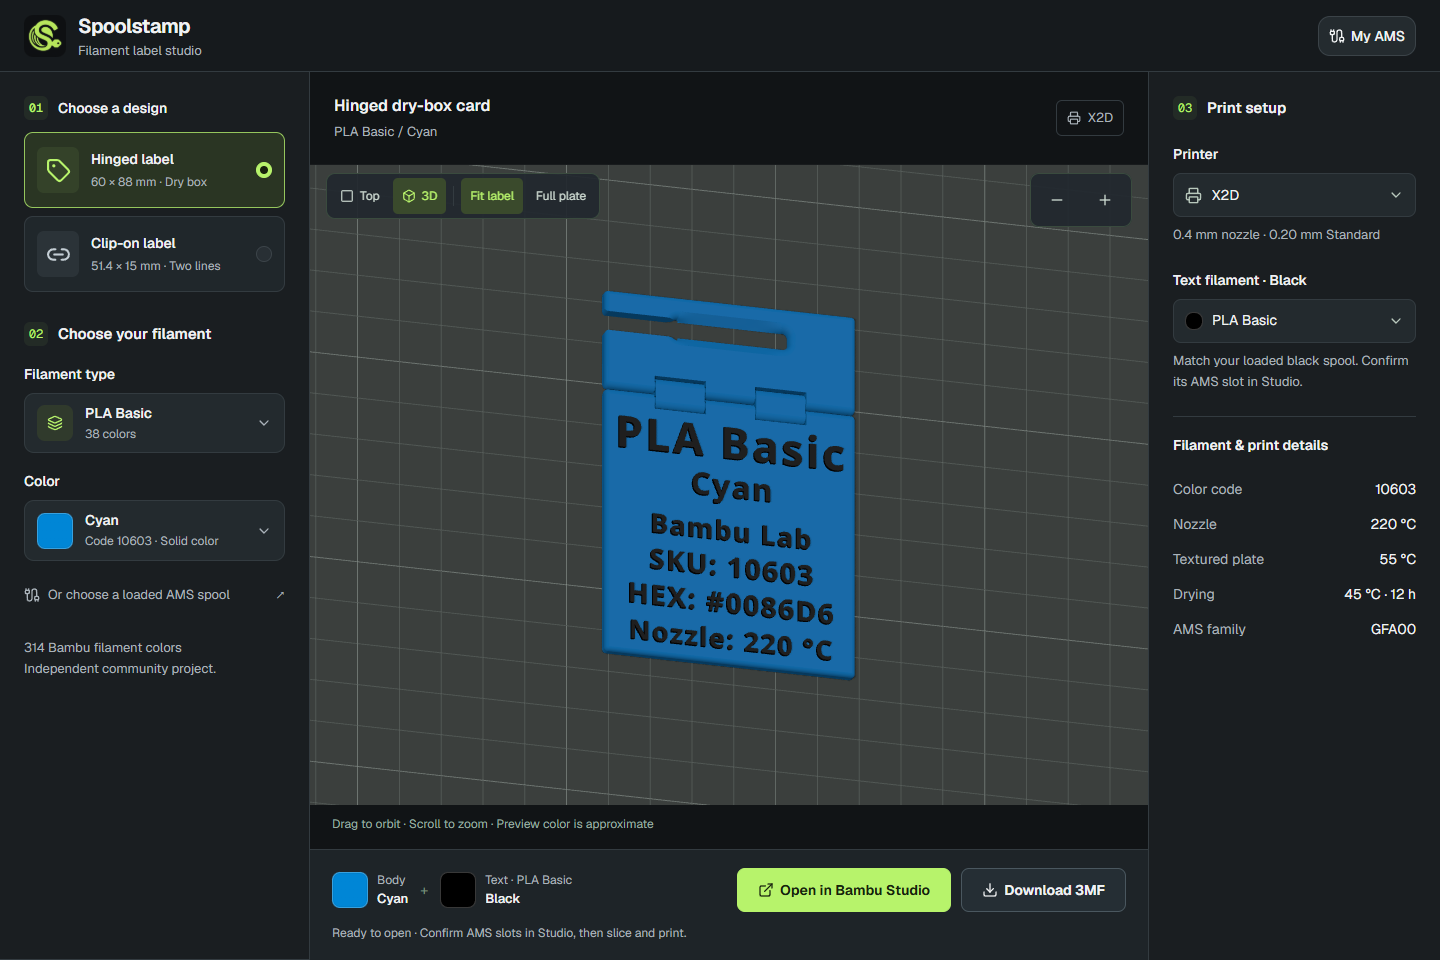
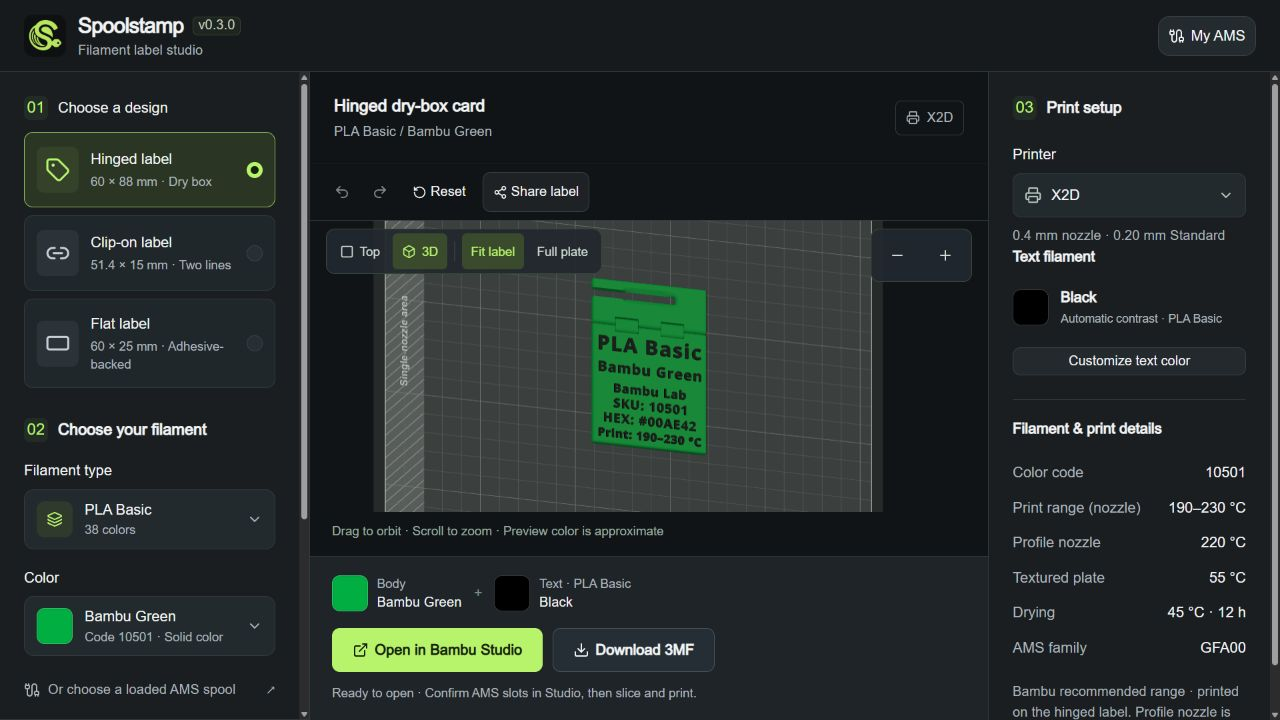
Refresh v0.3.0 guides, screenshots and design coverage

diff --git a/tests/label-plates.test.ts b/tests/label-plates.test.ts
@@ -1,6 +1,6 @@
 import { describe, expect, it } from 'vitest';
 import JSZip from 'jszip';
-import { DEFAULT_FILAMENT, FILAMENTS, PRINTERS } from '../lib/catalog';
+import { DEFAULT_FILAMENT, DESIGNS, FILAMENTS, PRINTERS } from '../lib/catalog';
 import {
   generateLabelPlates,
   MAX_PLATE_FILAMENTS,
@@ -40,7 +40,7 @@ describe('multi-label plates', () => {
       placeAssembliesOnBed([[{ vertices: [0, 0, 0, 180, 180, 2] }]], bed),
     ).toThrow('fit safely');
   });
-  it.each(['drybox-tab', 'clip-label'] as const)(
+  it.each(DESIGNS.map((design) => design.id))(
     'packs %s within every supported printer common-nozzle bed',
     async (design) => {
       const meshes = await buildConfiguredMeshes(DEFAULT_FILAMENT, design);

diff --git a/CONTRIBUTING.md b/CONTRIBUTING.md
@@ -11,14 +11,20 @@ npm ci
 npm run dev
 ```
 
-Before submitting:
+Before submitting, run the same checks as [CI](.github/workflows/ci.yml):
 
 ```sh
 npm run typecheck
 npm test
 npm run lint
+npm run build:ams:lambda
 npm run build
+npm run build:static
 ```
+
+The Lambda command only bundles the backend into `.aws-sam/ams/`; it does not deploy or need AWS credentials. The static build verifies `dist/client/index.html`, the artifact published by Amplify. Run production and static builds sequentially: they share `dist/`. Record what passed and any remaining limits; a passing geometry test is not a physical print or Studio-slicing qualification.
+
+For iteration, run relevant files with `npm test -- tests/label-editing.test.ts tests/saved-workspace-transfer.test.ts`. Run the complete suite before a PR. Catalog geometry tests are deliberately partitioned by product; preserve the full catalog/design matrix, per-design assertions and existing timeouts rather than sampling colors or weakening checks to make a slow run pass.
 
 ## Catalog updates
 
@@ -33,7 +39,43 @@ Optional store enrichment: `npm run sync:catalog:store`. Include the updated sna
 
 ## New designs
 
-Include the source, attribution, license, dimensions, and print settings. Templates should produce closed meshes, attached printable lettering, and consistent preview/export geometry. Add tests alongside the design.
+Keep Bambu-only filament support. For a supplied template, include its source, attribution, license, source hash, dimensions and intended print orientation; preserve accepted mechanical interfaces unless a change is explicitly intended. For an original design, identify it as original and document dimensions, mounting needs and any untested print/fit assumptions. The [flat adhesive label](docs/adhesive-label.md) is the original-design example; it must not inherit the supplied clip's provenance.
+
+Implementation entry points:
+
+- Add a stable ID and display metadata to `DESIGNS` in `lib/catalog.ts`; `DesignId` is derived from it. Keep existing IDs valid for saved drafts and shared links.
+- Put geometry in its own `lib/` module and wire `buildConfiguredMeshes` plus design-specific provenance, filename and project description in `lib/generate-3mf.ts`.
+- Check preview orientation, face normals, close-up framing and plate placement in `components/label-preview.tsx` and the `lib/preview-*` helpers. Preview and export must use the same geometry and print orientation.
+- Extend configuration restoration, link/backup round trips, UI metadata and documentation as needed; catalog validation must still reject unknown design IDs and arbitrary filament data.
+
+Add meaningful tests alongside the design. Use `tests/adhesive-label.test.ts` and `tests/adhesive-export.test.ts` as examples, and extend the existing catalog, build-plate, preview-bed, label-batch and label-plates coverage. Check closed positive-volume meshes on the serialized grid, printable strokes and text bounds across every catalog product/color, glyph attachment, retained source mechanics, and unchanged vertices during placement. Check every offered printer's common printable bed/exclusions and height, single/separate/arranged exports, body/text assignments and colors, filament-vector sizes, and accurate provenance/version metadata. Long names and manual text overrides need coverage. Clearly separate digital checks from native Studio import/slicing and physical qualification.
+
+## Local browser checks without Bambu traffic
+
+Use the synthetic fixture for layout and state checks. It binds only to loopback and returns sample inventory; it never contacts Bambu. Start these in separate PowerShell terminals from the repository root:
+
+```powershell
+# Terminal 1: synthetic API and scenario controls.
+node tests/fixtures/ams-browser-preview.mjs
+```
+
+```powershell
+# Terminal 2: frontend pointed only at the synthetic API.
+$env:VITE_AMS_API_ORIGIN = 'http://127.0.0.1:3005'
+npm run dev -- --host 127.0.0.1 --port 3004 --strictPort
+```
+
+Open `http://127.0.0.1:3004` for the app and `http://127.0.0.1:3005/` for scenario controls. Keep this exact hostname/port pair: the fixture permits that frontend origin. Exercise ready, reading, fresh, expired, offline and outage states through **My AMS**. A simulated read advances from reading to fresh after four seconds; the fixture page reports the simulated read count. Choose a label, expire the snapshot, then reopen My AMS and choose another captured catalog label without increasing that count. Check that expired choices are clearly separate from fresh inventory and that outage UI still permits manual/captured catalog choices.
+
+On desktop and 390/320 px mobile layouts, also check all designs, undo/redo/reset, shared-link restoration after reload, text-color overrides, and downloads. Use `tests/fixtures/workspace-backup.json` to check explicit imported-setup selection, duplicate merging and cross-tab saved-list changes. Undo/redo must invalidate in-flight downloads and Studio preparation; invalid links/backups must leave the current configuration/saved lists intact. The fixture covers authenticated UI states, not email-code authentication, real ownership checks, provider behavior or physical printer connectivity. Do not enter credentials or use the real cloud backend for this recipe. Stop both processes and remove the frontend variable when finished:
+
+```powershell
+Remove-Item Env:VITE_AMS_API_ORIGIN -ErrorAction SilentlyContinue
+```
+
+## Documentation and screenshots
+
+Refresh affected instructions, design details and README images when behavior changes. Prefer the synthetic fixture and sample workspace for screenshots; use the paths already referenced under `docs/images/`. Capture the actual interface at the documented viewport and label synthetic inventory as sample data. Check the saved image for clipping, overlap and readable text before committing it. Exclude account email, codes, cookies/tokens, physical printer names/serials and personal browser UI. A synthetic screenshot documents the interface and does not extend real-device qualification. Keep older dated qualification evidence explicit rather than presenting it as a current feature screenshot.
 
 ## Local integrations
 

diff --git a/docs/releases.md b/docs/releases.md
@@ -4,10 +4,38 @@
 
 Use semantic versions: patch for fixes, minor for compatible features, major for breaking changes. While the app is below 1.0, document any compatibility changes explicitly. The existing `0.1.0` package was the baseline; `0.2.0` begins tracked releases.
 
-1. Run `npm run release:patch`, `npm run release:minor`, or `npm run release:major` once on a release branch. These update package and lock versions without creating a tag or commit.
-2. Add the same version and release date to `CHANGELOG.md`.
-3. Run typecheck, tests, lint, production/static builds, and relevant browser checks. Test generated-project metadata when changing export behavior.
-4. Include version, lock, changelog, code and tests in the PR. After CI passes and publication is approved, merge to `main`.
-5. Verify the automatic deployment and the displayed version. If a Git tag/GitHub release is wanted, create `vX.Y.Z` at the merged commit only after approval and successful deployment. Bump commands never publish, push, or tag automatically.
+## Prepare and push a candidate
+
+1. Run `npm run release:patch`, `npm run release:minor`, or `npm run release:major` once on a release branch. These update package and lock versions without creating a tag or commit. The current `0.3.0` candidate is already bumped; do not bump it again just to push documentation or screenshots.
+2. Add the same version to `CHANGELOG.md` as **unreleased**, describing the final changes and their validation limits. A branch push or successful local build is not a release. Keep `0.3.0` unreleased while merge/deployment approval is pending.
+3. Run the checks below, refresh affected instructions/screenshots, and include version, lock, changelog, implementation and tests in the candidate. Preserve unrelated working-tree edits and exclude secrets or generated build output.
+4. Push only the approved scope to its feature branch and open a PR when authorized. Pushing a feature branch does not merge it, publish a GitHub release or deploy the production site. The repository CI runs on pull requests and `main` pushes; a feature-branch push without a PR does not itself run this workflow.
+
+## Validate the candidate
+
+From a clean dependency install, run the current [CI workflow](../.github/workflows/ci.yml) checks:
+
+```sh
+npm ci
+npm run typecheck
+npm test
+npm run lint
+npm run build:ams:lambda
+npm run build
+npm run build:static
+```
+
+Run the two frontend builds sequentially because they share `dist/`. Static validation checks the HTML/client artifacts Amplify publishes from `dist/client`; the normal production build also covers the server build path. Lambda validation produces `.aws-sam/ams/lambda-ams.mjs` locally and does not deploy the separately managed backend. Backend deployment and cloud-state checks are separate actions when backend changes require them.
+
+For design/export changes, retain full catalog text/readability checks, closed positive-volume geometry, glyph attachment and any supplied-template preservation assertions. Verify all offered printer beds and exclusions, matching preview/export orientation, single/separate/arranged exports, filament role assignments/vector sizes, provenance and `APP_VERSION` metadata. Partition expensive catalog checks by product without dropping cases or reducing existing limits. New designs must be included in the relevant test matrices, not only a default-filament smoke test.
+
+Use the [contributor browser recipe](../CONTRIBUTING.md#local-browser-checks-without-bambu-traffic) and `tests/fixtures/ams-browser-preview.mjs` for synthetic AMS states without credentials, verification emails or vendor reads. Check desktop and 390/320 px mobile layouts, captured label reuse after expiry, outage behavior, history cancellation, shared-link restoration, strict backup import and cross-tab stale-write handling. Refresh actual screenshots with sample data, review them for alignment and private information, and distinguish interface evidence from real-printer qualification. Record exact commands/results and any native Studio, provider or physical tests not performed; do not turn automated geometry checks into print/fit claims.
+
+## Merge and verify a release
+
+1. Obtain approval for the merge/deployment; push approval alone is not publication approval. Set the changelog release date as part of the approved release candidate and run CI for that exact final head. Any later change needs checks for the changed head before merging.
+2. Merge only the exact CI-tested PR head after all required checks pass. Amplify publishes the static website automatically from `main`; do not assume its success from the GitHub merge result.
+3. Verify the deployment and displayed version beside the logo, the affected features/assets, and generated 3MF application-version metadata when exports changed. Compare with the merged revision and report any verification limits. The separate AMS backend is not updated by the static website deployment.
+4. If a Git tag/GitHub release is wanted, create `vX.Y.Z` at the merged commit only after approval and successful deployment. Bump commands never publish, push, merge, deploy or tag automatically.
 
 Browser storage schema versions and the pinned Bambu Studio importer identifier are independent of the app’s release number; do not bump or migrate them just to release UI changes.

diff --git a/docs/label-editing.md b/docs/label-editing.md
@@ -1,9 +1,31 @@
 # Editing, sharing and workspace transfer
 
+## Edit a label
+
+Choose a design, filament and printer, then use the toolbar above the preview. **Undo** and **Redo** move between recent choices; **Reset** returns to the default label. Saved favorites and drafts stay available.
+
 The editing toolbar provides undo, redo, reset and **Share label**. Undo/redo covers the last 30 label-configuration changes: filament, design, printer profile, and text choices. It does not undo favorite/draft operations or make/cancel Bambu requests. Reset returns the builder to its default configuration without deleting saved items. Configuration changes, including undo/redo, invalidate in-flight model downloads and Studio preparation.
+
+## Share a setup
+
+1. Finish choosing your label and click **Share label**.
+2. Paste the copied link into your message. If copying is unavailable, select and copy the **Shareable label link** field.
+3. Open the link in another browser to restore its design, filament, printer profile and text choices. Confirm the physical spools in Studio before printing.
+
+![Share label exposes a selectable link above the preview](images/share-label.png)
 
 **Share label** copies a link and exposes a selectable copy field. The URL fragment contains only a versioned catalog filament ID, printer _profile_ ID, design and allowed text options. It contains no Bambu email, code, cookie, token, physical printer ID or AMS inventory. Fragments are not sent in the HTTP request; the choices can still appear in browser history or wherever a user shares the link. Shared choices override remembered setup on initial load and also respond to same-page fragment navigation. Unknown or oversized links leave the builder unchanged and show an error.
 
+## Move favorites and drafts
+
+1. Open **My saved filaments → Backup & restore** and click **Download backup**.
+2. On the destination browser, open the same section and choose your JSON file under **Import a Spoolstamp backup**.
+3. Review the import result. Your existing favorites and drafts are retained. Choose **Use imported setup** to apply the backed-up label, or keep editing the current one.
+
+![Backup and restore controls under My saved filaments](images/workspace-backup.png)
+
 Under **My saved filaments → Backup & restore**, **Download backup** exports setup, favorites and drafts as a local JSON file. Import is limited to 32 KB and strictly validates schema, fields and current catalog choices. It merges duplicates without replacing existing favorites/drafts; capacity overflow rejects the whole import. Imported setup is applied only after **Use imported setup**. Remember-setting and login state are not transferred. The file is not encrypted, but contains catalog choices only, never credentials or live inventory.
+
+## Multiple tabs and storage limits
 
 Tabs synchronize saved lists through storage events. Before writing, a tab checks whether the stored record changed; unseen changes load the latest workspace and ask the user to retry rather than overwriting it. This is best-effort optimistic detection, not atomic multi-process locking: truly simultaneous writes remain a limitation. External setup changes do not unexpectedly replace an actively edited label. Browser storage may be blocked or cleared; keep a backup if the drafts matter.

diff --git a/README.md b/README.md
@@ -34,16 +34,30 @@ A flat face with two lines: material type and color.
 
 ![Clip-on label in the Spoolstamp 3D preview](docs/images/clip-label.png)
 
+## Flat adhesive labels
+
+Choose **Flat label** for an original 60 × 25 mm backing with raised product, color and catalog-code lettering. Add your own suitable adhesive after printing. See [design details and print guidance](docs/adhesive-label.md); physical printing and mounting still need testing.
+
+![Flat adhesive label and editing toolbar in Spoolstamp v0.3.0](docs/images/flat-label.png)
+
+## Edit, share and keep your labels
+
+Use the toolbar above the preview to **Undo**, **Redo**, **Reset**, or **Share label**. Share links restore catalog choices without including Bambu account data or live inventory.
+
+Save favorites and drafts under **My saved filaments**. Open **Backup & restore** to download a JSON backup or import it into another browser. After importing, choose **Use imported setup** if you want to apply the backed-up label. See the [step-by-step guide](docs/label-editing.md).
+
 ## My AMS
 
 Read your loaded spools directly through Bambu Cloud, then create labels without looking up each filament. The browser flow has been tested with a real X2D on the live website.
 
 1. Open **My AMS → Connect Bambu Cloud**.
 2. Enter your Bambu account email, accept the connection notice, and request a verification code.
-3. Sign in with the code, select your cloud-connected printer, and click **Read fresh AMS**.
+3. Sign in with the code, select your cloud-connected printer, and click **Read AMS**.
 4. Confirm your loaded spools, then use a label or select spools for a batch ZIP export.
 
-<img src="docs/images/ams-cloud-snapshot.png" width="420" alt="Live X2D cloud AMS snapshot showing A1 PLA Basic Black at 28 percent and A2 PETG Basic Black at 36 percent remaining" />
+<img src="docs/images/ams-cloud-preview.png" width="420" alt="Spoolstamp v0.3.0 My AMS panel with a sample printer, Spools ready status and loaded PLA choices" />
+
+Current interface shown with synthetic sample spools. Dated real-printer evidence and qualification limits are documented in [My AMS](docs/ams-integration.md).
 
 Sign in with your global-region Bambu account—no invitation or account approval is needed. Your printer must be cloud-connected. The manual filament picker is also available without signing in.
 

diff --git a/docs/ams-integration.md b/docs/ams-integration.md
@@ -19,7 +19,7 @@ No local helper, printer IP, LAN access code, or account password is requested.
 The backend holds your email/token temporarily encrypted; the token is never
 saved in the browser and verification codes are not persisted. **Privacy details**
 in the sign-in form explains this handling. Sign out deletes the session. Sessions
-expire after 30 minutes; expired encrypted records can remain for days until
+last up to 30 minutes from Connect; expired encrypted records can remain for days until
 cleanup. Restarting the hosted backend does not sign you out. The separate local
 development preview keeps sessions in memory and clears them on restart.
 
@@ -33,6 +33,12 @@ The freshness requirement applies to live-slot actions. Reusable label choices a
 One state-aware status card replaces repeated connection messages. Timing details are under **How it works**. If the account has only one printer it is selected automatically, without making a printer-read request. Selecting a different printer never presents the previous printer’s snapshot as live for the new selection.
 
 ## Live X2D browser test
+
+### Current interface — v0.3.0
+
+<img src="images/ams-cloud-preview.png" width="420" alt="Current My AMS interface with a sample X2D printer and synthetic loaded-spool data" />
+
+This screenshot uses the local synthetic fixture. It illustrates the current interface and does not add real-device qualification. For the repeatable local test recipe, see [Contributing](../CONTRIBUTING.md#local-browser-checks-without-bambu-traffic).
 
 ### UI regression checks — November 4, 2026
 
@@ -54,7 +60,7 @@ and use with the development computer off still need separate real-device checks
 
 ## Text and batches
 
-**Use compatible loaded black/white text automatically** suggests a contrasting
+**Match text to a loaded black/white spool** suggests a contrasting
 spool from the same material family. In **Print setup**, choose **Customize text
 color** to override it with white, black, gray, red, blue or yellow and a short list
 of common same-material profiles. This turns off automatic AMS text selection;

diff --git a/docs/images/README.md b/docs/images/README.md
@@ -1,0 +1,18 @@
+# Documentation screenshots
+
+Current interface captures were refreshed locally on November 6, 2026 for the **v0.3.0 candidate**, before production publication. Desktop captures use the browser's 1280 × 720 default viewport.
+
+| File                    | View                                                                                   |
+| ----------------------- | -------------------------------------------------------------------------------------- |
+| `workspace.png`         | Hinged label, all three design options, editing toolbar and print setup                |
+| `clip-label.png`        | Clip-on label in the same workspace                                                    |
+| `flat-label.png`        | Original flat adhesive label                                                           |
+| `share-label.png`       | Copied catalog-only link and selectable copy field                                     |
+| `workspace-backup.png`  | Expanded Backup & restore with sample saved drafts                                     |
+| `ams-cloud-preview.png` | Current My AMS drawer with synthetic sample inventory; cropped to the 490 × 720 drawer |
+
+The workspace and AMS examples use public catalog choices and synthetic local fixtures. The screenshots contain no Bambu account email, verification code, token, physical printer identifier or real inventory. Local-only **Open in Bambu Studio** controls may appear in desktop captures; the hosted site provides 3MF download.
+
+`ams-cloud-printer.png` and `ams-cloud-snapshot.png` remain dated owner-provided real-X2D evidence from October 8, 2026. They document that test rather than the current interface. Their context and limits are recorded in [My AMS](../ams-integration.md#owner-provided-x2d-evidence--october-8-2026).
+
+See [Contributing](../../CONTRIBUTING.md#documentation-and-screenshots) for refresh and privacy guidance.

diff --git a/docs/adhesive-label.md b/docs/adhesive-label.md
@@ -1,5 +1,16 @@
 # Flat adhesive label
 
+![Flat label selected in the Spoolstamp workspace](images/flat-label.png)
+
+## Create and print
+
+1. Select **Flat label** under **Choose a design**, then choose the filament and color.
+2. Pick your printer. Keep automatic text contrast, or open **Customize text color** to match the actual text spool.
+3. Download the 3MF and open it as a project in Bambu Studio. Confirm body/text assignments and inspect the sliced lettering before printing backing-down.
+4. Test the finished label and your chosen adhesive on the intended surface before mounting.
+
+## Dimensions and validation
+
 An original 60 × 25 mm rectangular label with a 1.6 mm flat backing and 0.8 mm raised lettering. Unlike the supplied hinged card and clip, it has no moving parts, clip clearance, holes or model-specific mounting mechanism. Supply suitable double-sided tape or adhesive yourself; none is modeled or included.
 
 The product and color are the main two lines. A small catalog color code is included when the color fits one line. Long colors wrap over two lines instead of reducing strokes below the existing 0.4 mm-nozzle screening limits; full names remain in text metadata. Body and raised text use separate material roles, retaining the existing same-family text-color/profile controls.
